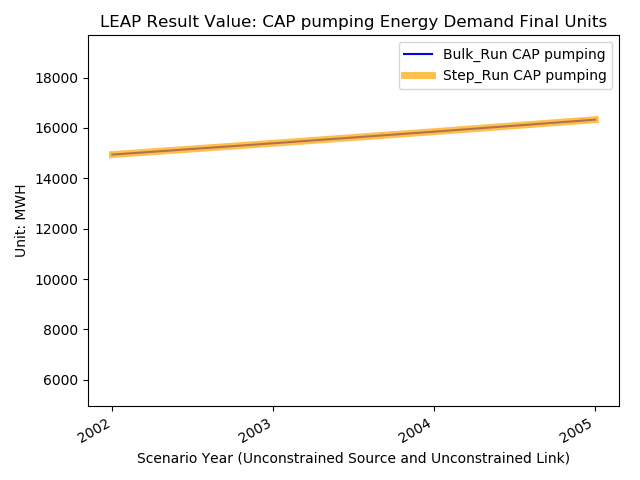
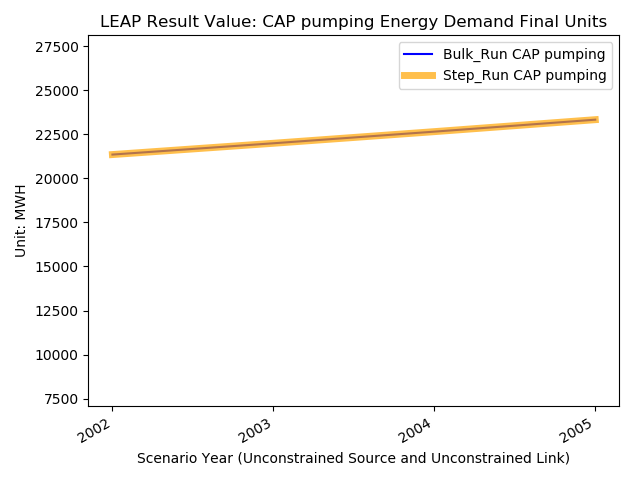
compare LEAP results module added

diff --git a/resources/Test_running_by_yearly_steps.py b/resources/Test_running_by_yearly_steps.py
@@ -96,9 +96,10 @@ def get_LEAP_value():
 		           'variable': 'Average Power Dispatched', 'unit': 'MW'}
 	for r in resources:
 		if r == 'Electricity':
-			path[r] = {'name': r, 'path': 'Resources\\Secondary\\' + r, 'variable': 'Primary Requirements', 'unit':'MWH'}
+			path[r] = {'name': r, 'path': 'Resources\\Secondary\\' + r, 'variable': 'Primary Requirements',
+			           'unit': 'MWH'}
 		else:
-			path[r] = {'name': r, 'path': 'Resources\\Primary\\' + r, 'variable': 'Primary Requirements', 'unit':'MWH'}
+			path[r] = {'name': r, 'path': 'Resources\\Primary\\' + r, 'variable': 'Primary Requirements', 'unit': 'MWH'}
 
 	for v in path.values():
 		print(v)
@@ -117,9 +118,9 @@ def get_LEAP_value():
 	return LEAP_Result, timeRange
 
 
-def iterate_by_month():
+def iterate_by_year():
 	"""
-	This module runs WEAP and LEAP by steps and is still under development.
+	This module runs WEAP and LEAP by yearly steps and is still under development.
 	:return: WEAP_Result, LEAP_Result
 	"""
 	year = [2001, 2005]
@@ -137,41 +138,46 @@ def iterate_by_month():
 	WEAP_Population = 100000
 	WEAP.ActiveScenario = "Current Accounts"
 	WEAP.BranchVariable('\Key Assumptions\Population').Expression = 100000
-	WEAP.BranchVariable('\Supply and Resources\Groundwater\Agricultural Groundwater:Initial Storage').Expression = 10000
+	WEAP.BranchVariable('\Supply and Resources\Groundwater\Agricultural Groundwater:Initial Storage').Expression = 100
 	WEAP.ActiveScenario = "Linkage"
 	WEAP.BranchVariable('\Key Assumptions\Population').Expression = 'Growth(0.03)'
-
+	LEAP.ActiveScenario = "Current Accounts"
+	LEAP.Branch('\Key Assumptions\Population').Variable().Expression = 1000000
+	LEAP.ActiveScenario = "Linkage"
+	LEAP.Branch('\Key Assumptions\Population').Variable().Expression = 'Growth(0.03)'
 	for y in range(year[0], year[1]):
 		WEAP.BaseYear = y
 		WEAP.EndYear = y + 1
 		LEAP.EndYear = y + 1
 		LEAP.FirstScenarioYear = y + 1
 		LEAP.BaseYear = y
-		WEAP.Calculate()
-		flow, WEAP_timeRange = get_WEAP_flow_value()
-		LEAP.Calculate()
-		value, LEAP_timeRange = get_LEAP_value()
 
 		WEAP.ActiveScenario = "Current Accounts"
 		WEAP.BranchVariable('\Key Assumptions\Population').Expression = WEAP_Population * (
-				1 + WEAP_Population_Growth) ** (y - year[0] + 1)
+				1 + WEAP_Population_Growth) ** (y - year[0])
 		print('Population', WEAP.BranchVariable('\Key Assumptions\Population').Expression)
 		WEAP.ActiveScenario = "Current Accounts"
 		WEAP.BranchVariable(
 			'\Supply and Resources\Groundwater\Agricultural Groundwater:Initial Storage').Expression = WEAP.ResultValue(
 			'\Supply and Resources\Groundwater\Agricultural Groundwater: Storage',
 			y + 1, 12, 'Linkage', y + 1, 12, 'Total') / 1000000
+		LEAP.ActiveScenario = "Current Accounts"
 		LEAP.Branch('\Key Assumptions\Population').Variable().Expression = LEAP_Population * (
-				1 + LEAP_Population_Growth) ** (y - year[0] + 1)
+				1 + LEAP_Population_Growth) ** (y - year[0])
 		print('LEAP population', LEAP.Branch('\Key Assumptions\Population').Variable())
 		# print('Groundwater Storage', WEAP.ResultValue(
 		# 	'\Supply and Resources\Groundwater\Agricultural Groundwater: Storage',
 		# 	y+1, 12, 'Linkage', y+1, 12, 'Total')/1000000)
+		LEAP.Calculate()
+		value, LEAP_timeRange = get_LEAP_value()
+
+		WEAP.Calculate()
+		flow, WEAP_timeRange = get_WEAP_flow_value()
 
 		WEAP_Result[str(y + 1)] = flow
 		LEAP_Result[str(y + 1)] = value
-		print(flow)
 		print(y + 1)
+		print('This is flow in year' + str(y + 1), flow)
 
 	return WEAP_Result, LEAP_Result
 
@@ -197,7 +203,9 @@ def run_fulltime_WEAP():
 	LEAP.EndYear = 2005
 	LEAP.BaseYear = 2001
 	LEAP.FirstScenarioYear = 2002
+	LEAP.FirstDepletionYear = 2002
 
+	LEAP.Calculate()
 	WEAP.Calculate()
 	flow, timeRange = get_WEAP_flow_value()
 	return flow, timeRange
@@ -225,6 +233,7 @@ def run_fulltime_LEAP():
 	LEAP.BaseYear = 2001
 	LEAP.FirstScenarioYear = 2002
 
+	WEAP.Calculate()
 	LEAP.Calculate()
 	value, timeRange = get_LEAP_value()
 	return value, timeRange
@@ -281,7 +290,7 @@ def compare_result_WEAP(flow, WEAP_Result):
 		         label='Bulk_Run ' + flow[list(flow.keys())[0]][i]['name'])
 		plt.plot(year, WEAP_Result[i]['value'], color='orange', label='Step_Run ' + WEAP_Result[i]['name'], alpha=0.7,
 		         linewidth=5)
-		plt.xlabel('Scenario Year')
+		plt.xlabel('Scenario Year (Unconstrained Source and Unconstrained Link)')
 		plt.ylabel('Flow Value: M^3')
 		plt.title('WEAP Result Value: ' + WEAP_Result[i]['name'])
 		plt.legend(loc=1)
@@ -308,7 +317,7 @@ def compare_result_LEAP(value, LEAP_Result):
 		         linewidth=5)
 		plt.xlabel('Scenario Year (Unconstrained Source and Unconstrained Link)')
 		plt.ylabel('Unit: ' + value[i]['unit'])
-		plt.title('LEAP Result Value: ' + LEAP_Result[i]['name'] + ' ' +LEAP_Result[i]['variable'])
+		plt.title('LEAP Result Value: ' + LEAP_Result[i]['name'] + ' ' + LEAP_Result[i]['variable'])
 		plt.legend(loc=1)
 		bottom, top = plt.ylim()
 		plt.ylim(bottom / 3, top * 1.2)
@@ -318,8 +327,7 @@ def compare_result_LEAP(value, LEAP_Result):
 	pass
 
 
-# get_LEAP_value()
-WEAP_Result, LEAP_Result = iterate_by_month()
+WEAP_Result, LEAP_Result = iterate_by_year()
 print(LEAP_Result)
 with open('WEAP_Result.json', 'w') as f:
 	json.dump(WEAP_Result, f)
@@ -332,7 +340,6 @@ with open('WEAP_Result.json', 'w') as f:
 # value, timeRange = run_fulltime_LEAP()
 # compare_result_LEAP(value, LEAP_Result)
 # print(timeRange, value)
-
 
 with open('WEAP_Result.json') as wp:
 	WEAP_Result = json.load(wp)

diff --git a/model_coupling_Test.py b/model_coupling_Test.py
@@ -8,64 +8,66 @@ import win32com.client
 
 LEAP = win32com.client.Dispatch('LEAP.LEAPApplication')
 WEAP = win32com.client.Dispatch('WEAP.WEAPApplication')
-
-
-# print(LEAP.View)
-# print(LEAP.Branch(1).name)
-
-
-def CAP_pumping(year):
-	v1 = WEAP.ResultValue(
-		'Supply and Resources\Transmission Links\\to Power2\\from Withdrawal Node 3:Total Node Outflow', year, 1,
-		'Linkage', year,
-		12)
-	v2 = WEAP.ResultValue(
-		'Supply and Resources\Transmission Links\\to Municipal\\from Withdrawal Node 1:Total Node Outflow', year, 1,
-		'Linkage', year,
-		12)
-	return v1 + v2 * 1.5
-
-
-def WTP(year):
-	v1 = WEAP.ResultValue(
-		'Supply and Resources\Transmission Links\\to Municipal\\from Withdrawal Node 2:Total Node Outflow', year, 1,
-		'Linkage', year,
-		12)
-	v2 = WEAP.ResultValue(
-		'Supply and Resources\Transmission Links\\to Municipal\\from Withdrawal Node 1:Total Node Outflow', year, 1,
-		'Linkage', year,
-		12)
-	return (v1 + v2) * 0.45
-
-
-def WWTP(year):
-	v1 = WEAP.ResultValue(
-		'Supply and Resources\Return Flows\\from WWTP\\to WWTP Return:Total Node Outflow', year, 1,
-		'Linkage', year,
-		12)
-	return v1 * 0.53
-
-
-def Power2(year):
-	v1 = LEAP.Branch('Transformation\Electricity generation\Processes\Power2').Variable(
-		'Average Power Dispatched').Value(year)
-	obj = LEAP.Branch('Transformation\\Electricity generation\\Processes\\Power1').Variable(
-		'Average Power Dispatched').Value(year)
-	object_methods = [method_name for method_name in dir(obj)
-	                  if callable(getattr(obj, method_name))]
-	print(obj)
-	return v1
-
-
-print(LEAP.Branch('Transformation\\Electricity generation\\Processes\\Power1').Variable(
-		'Exogenous Capacity'))
-LEAP.Branch('Transformation\\Electricity generation\\Processes\\Power1').Variable(
-		'Exogenous Capacity').Expression = 300
-
-print(WEAP.TimeStepName(1))
-
-
-LEAP.BaseYear=2002
-print(LEAP.BaseYear)
-print(LEAP.EndYear)
-Power2(2001)
+#
+#
+# # print(LEAP.View)
+# # print(LEAP.Branch(1).name)
+#
+#
+# def CAP_pumping(year):
+# 	v1 = WEAP.ResultValue(
+# 		'Supply and Resources\Transmission Links\\to Power2\\from Withdrawal Node 3:Total Node Outflow', year, 1,
+# 		'Linkage', year,
+# 		12)
+# 	v2 = WEAP.ResultValue(
+# 		'Supply and Resources\Transmission Links\\to Municipal\\from Withdrawal Node 1:Total Node Outflow', year, 1,
+# 		'Linkage', year,
+# 		12)
+# 	return v1 + v2 * 1.5
+#
+#
+# def WTP(year):
+# 	v1 = WEAP.ResultValue(
+# 		'Supply and Resources\Transmission Links\\to Municipal\\from Withdrawal Node 2:Total Node Outflow', year, 1,
+# 		'Linkage', year,
+# 		12)
+# 	v2 = WEAP.ResultValue(
+# 		'Supply and Resources\Transmission Links\\to Municipal\\from Withdrawal Node 1:Total Node Outflow', year, 1,
+# 		'Linkage', year,
+# 		12)
+# 	return (v1 + v2) * 0.45
+#
+#
+# def WWTP(year):
+# 	v1 = WEAP.ResultValue(
+# 		'Supply and Resources\Return Flows\\from WWTP\\to WWTP Return:Total Node Outflow', year, 1,
+# 		'Linkage', year,
+# 		12)
+# 	return v1 * 0.53
+#
+#
+# def Power2(year):
+# 	v1 = LEAP.Branch('Transformation\Electricity generation\Processes\Power2').Variable(
+# 		'Average Power Dispatched').Value(year)
+# 	obj = LEAP.Branch('Transformation\\Electricity generation\\Processes\\Power1').Variable(
+# 		'Average Power Dispatched').Value(year)
+# 	object_methods = [method_name for method_name in dir(obj)
+# 	                  if callable(getattr(obj, method_name))]
+# 	print(obj)
+# 	return v1
+#
+#
+# print(LEAP.Branch('Transformation\\Electricity generation\\Processes\\Power1').Variable(
+# 		'Exogenous Capacity'))
+# LEAP.Branch('Transformation\\Electricity generation\\Processes\\Power1').Variable(
+# 		'Exogenous Capacity').Expression = 300
+#
+# print(WEAP.TimeStepName(1))
+#
+#
+# LEAP.BaseYear=2002
+# print(LEAP.BaseYear)
+# print(LEAP.EndYear)
+# Power2(2001)
+LEAP.Calculate()
+WEAP.Calculate()
